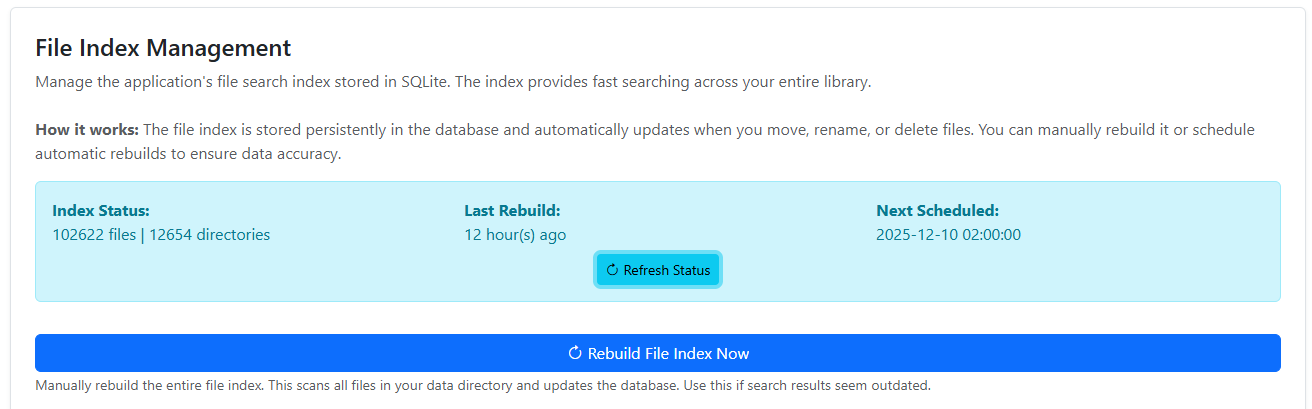
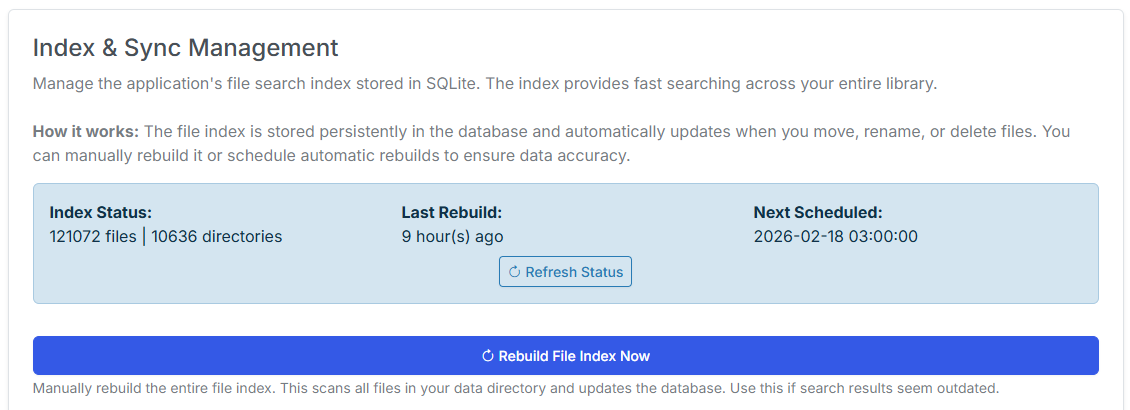
Doc Updates v4.7

diff --git a/docs/features/app-settings/download-settings.md b/docs/features/app-settings/download-settings.md
@@ -1,12 +1,12 @@
-# Download Settings
+# Download and API Settings
 
-![Download Settings](../../assets/settings/download-settings.png){: .center-image}
+The settings on this page are related to downloading files and connecting to various APIs for information OTHER than metadata. That is covered in the [Metadata Providers](metadata.md) page.
 
 ### API Download Configuration <a href="#api-configuration" id="api-configuration"></a>
 
-#### Custom Headers for Auth
+![Download and API Settings](../../assets/settings/download-settings.png){: .center-image}
 
-Depending on your authentication/VPN/etc to protect your site, this setting will allow you to pass custom auth variables or anything else in the header. Simply enter the content you need to pass as JSON.&#x20;
+Depending on your authentication/VPN/etc to protect your site, this setting will allow you to pass custom auth variables or anything else in the header. Simply enter the content you need to pass as JSON. These options, along with the Chrome extension, will let you `click` links and send them to CLU to be downloaded to your `/watch` folder.
 
 The example provided shows you how to pass Client ID and Client Secret to authenticate to your site.
 
@@ -17,42 +17,51 @@ The example provided shows you how to pass Client ID and Client Secret to authen
 }
 ```
 
-#### PixelDrain API Key
+## Download Provider Priority
 
-For the [File Downloads](../../features/file-downloads/index.md) feature, you can bypass daily limits by entering your API key in this field.
+![Download Provider Priority](../../assets/settings/download-providers.png){: .center-image}
 
-### Metadata API Configuration
+This section allows you to set the priority of the download providers. This is used by the app to determine the order in which to try the download providers when downloading files.
 
-Various settings for calling metadata services and APIs are configured in this section.
+Use the up and down arrows to move the download providers up and down in the list. The higher the provider is in the list, the higher the priority it has. If one provider fails, the download will be retried with the next provider in the list.
 
-#### Comicvine API Key
+### PixelDrain API Key
 
-Enter your Comicvine API key here to allow the app to call the Comicvine API for metadata.
+For the [File Downloads](../../features/file-downloads/index.md) feature, you can bypass daily limits by entering your API key in this field. 
 
-#### Metron Username and Password
+!!! Recommended Provider
+    PixelDrain is a recommended service. $10 of [Pre-Paid service](https://pixeldrain.com/home#) should easily last you all year and you'll see download speed improvements with 5GB downloads in a matter of minutes.
 
-Enter your Metron username and password here to allow the app to call the [Metron API](https://metron.cloud/) for metadata.
+## Komga Reading Sync
 
-!!! warning "Required for Pull List"
-    The pull list requires the Metron API to be enabled in the app settings.
+![Komga Reading Sync](../../assets/settings/komga-sync.png){: .center-image}
 
-#### GCD Metadata Languages
+This section allows you to import your reading progress from Komga. Once imported, your reading history will be available in all [Library Insights](../../features/insights/index.md) sections. This will allow you to see your reading progress in the context of your entire collection.
 
-Enter a comma-separated list of languages to search for metadata on. This is used by the app to search for metadata on comics in the GCD database. Defualts to `en`. 
+Additionally, books you have started in Komga will marked as "In Progress" in CLU and when opened, will resume reading from where you left off in Komga.
 
-#### Auto File Renaming
+### Server, Username and Password
 
-If this is enabled, anytime metadata from **Comicvine** is downloaded, the app will use the rename pattern to rename the file.
+These fields are used to connect to your Komga server. The URL should be the base URL of your Komga server. The username and password are the credentials for your Komga server. 
 
-#### Auto Move Files
+### Library Path Mapping
 
-If this is enabled, anytime metadata from **Comicvine** is downloaded, the app will use the move pattern to move the file to the target directory.
+In order to correctly map your reading progress, CLU needs to know where your files are located on your Komga server. For each libray you have configured in CLU, simply enter the path to the files on your Komga server. When imported, files will be matched based on the relative path from the library path you provide here.
 
-#### Custom Move Pattern
+### Sync Schedule
 
-Much like the custom rename pattern, this allows you to define a custom move pattern for your files. When enabled, anytime metadata from **Comicvine** is downloaded, the app will use this pattern to move the file to the target directory.
+This section allows you to setup a continual sync between CLU and Komga. This is a one way sync from Komga to CLU. It will not update Komga with any changes made in CLU.
 
-![Move Pattern](../../assets/settings/move-pattern.png){: .center-image}
+**Frequency:** This will enable the sync between CLU and Komga. This is disabled by default. You can select **Daily** or **Weekly** for the sync frequency.
 
-!!! info "To Do: Add GCD Support"
-    Future versions will support auto renaming/moving files based on metadata from the GCD database.
+**Sync Interval (hours):** Set the timing for syncing your reading progress from Komga. The interval is set in hours. 
+
+#### Sync Status
+
+This section will display the status of the sync between CLU and Komga. It will display the *Last Sync* timestamp, *Total Read Issues Synced* and *Total In Progress Issues Synced*.
+
+#### Save, Test Connection and Sync Now
+
+- **Save:** Saves the settings in this section.
+- **Test Connection:** Tests the connection to your Komga server. If successful, it will display a *Connected* indicator.
+- **Sync Now:** Triggers an immediate sync between CLU and Komga. You can trigger a one-time sync anytime you'd like by clicking this button.

diff --git a/docs/features/app-settings/file-settings.md b/docs/features/app-settings/file-settings.md
@@ -8,7 +8,7 @@ All settings related to file moving, renaming and processing are updated in this
 
 ![File Settings](../../assets/settings/file-settings.png){: .center-image}
 
-### Folder Monitoring
+## Folder Monitoring
 
 This is the most extensive set of features and will only be applicable if [folder-monitoring](../../features/folder-monitoring/index.md) is enabled. Most of these feature flags enhance the previous feature flag.
 
@@ -43,7 +43,9 @@ The two options here will vary greatly on how much you use [Missing Issue Check]
 
 **IGNORED FILES:** Add a comma-separated list of files to ignore when checking for missing issues. Your collection may be a mix of CBZ/CBR/PDF or other files but if you have other files in your directories you want excluded, just add them here.
 
-### Directory & File Processing Settings
+## Directory & File Processing Settings
+
+![Directory & File Processing Settings](../../assets/settings/directory-settings.png){: .center-image}
 
 **Enable Subdirectories for Conversion:** This specifically allows [Convert Directory](../../features/directory-features/convert.md) to traverse subdirectories and convert all CBR/RAR files to CBZ. This is not enabled by default - as running this on a high level folder AND a large collection could take quite a bit of time.
 
@@ -51,13 +53,27 @@ The two options here will vary greatly on how much you use [Missing Issue Check]
 
 **DELETED TYPES:** Add a comma-separated list of extensions to delete while performing actions on files. When any operation unpacks a RAR/ZIP File, files with these extensions will deleted before the file is re-packed. Examples are: `.nfo,.sfv,.db,.DS_Store`
 
-### Custom Rename Pattern Settings
+## Custom Naming Settings
 
-Use a custom naming scheme for renaming issues when downloads are processed or files are renamed.
+![Custom Naming Settings](../../assets/settings/naming-settings.png){: .center-image}
+
+Use the options below to customize the naming scheme for file and directory operations.
+
+### Custom File Naming
+
+Use a custom naming scheme for renaming issues when downloads are processed or files/directories are renamed in the UI
 
 Enter your naming pattern using the syntax provided and see a real-time preview of the result.
 
-![Naming Pattern](../../assets/settings/naming-pattern.png)
+### Custom Folder Patterns
 
-!!! warning
-    Renaming applies only to issues. Entering directory paths or folder structures is not yet supported.
+Similar to the custom file naming above, this allows you to customize the naming scheme for folders.
+
+Currently, this is only used with the [Pull List](../../features/pull-list/index.md) feature to create folders for each series. This allows you to organize your files in a way that makes sense to you.
+
+!!! info "Available Variables"
+    - {publisher}
+    - {series_name}
+    - {volume_number}
+    - {start_year}
+    - {issue_number}

diff --git a/docs/features/app-settings/personalization.md b/docs/features/app-settings/personalization.md
@@ -1,0 +1,51 @@
+---
+description: Update Preferences and Style the App to Your Liking
+---
+# Personalization
+
+Update the layout of the homepage, change the theme, and enable recommendations from the Personalization page.
+
+## Theme Selection
+
+![Theme Selection](../../assets/settings/styling.png){: .center-image}
+
+Simply select the theme from the dropdown and click Save. You'll see a preview image of the theme when selected.
+
+!!! note
+    The **Default** theme and the **Zephyr** theme are the only officially supported themes.
+
+## Homepage Layout
+
+![Homepage Layout](../../assets/settings/dashboard.png){: .center-image}
+
+### Ordering
+
+Use the up <i class="bi bi-arrow-up"></i> and down <i class="bi bi-arrow-down"></i> arrows to reorder the sections on the homepage.
+
+### Display
+
+Check and uncheck sections you want to display on your homepage.
+
+## Recommendations
+
+![Recommendations](../../assets/settings/recommendations.png){: .center-image}
+
+This setting let's you configure an AI-powered recommendation service for your reading list. Requires an API key from your preferred provider.
+
+This feature takes your reading history and "Want to Read" list and uses it to generate personalized recommendations for you. Recommendations are manually triggerer, so you can manage how often they run and use them when you want to find something new to read.
+
+### AI Provider
+
+Select your preferred AI provider from the dropdown. Currently supported providers are:
+
+- OpenAI (ChatGPT)
+- Anthropic (Claude)
+- Gemini (Google)
+
+### API Key
+
+Enter your API key for the selected provider.
+
+### Model
+
+Select the model you would like to use for recommendations.

diff --git a/docs/features/app-settings/system-settings.md b/docs/features/app-settings/system-settings.md
@@ -4,7 +4,7 @@ description: All of the Options available in Settings
 
 # System and Performance Settings
 
-![System and Performance Settings](../../assets/settings/system-settings.png)
+Settings related to System Performace and Operations are managed in this section.
 
 ## Performance and Timeout Settings
 
@@ -28,8 +28,6 @@ Clears system cache and API to remove any cached data.
 
 ![File Index Rebuild](../../assets/settings/index-rebuild.png)
 
-In v4, the **Cache Management** has been replaced with databased managed file indexing. This provides faster page loads and improved search performance. 
-
 From this area in admin, you can manually trigger a file index rebuild and schedule daily or weekly rebuilds. You'll also see your current index status here.
 
 ### Automatic Rebuild Schedule
@@ -39,6 +37,9 @@ From this area in admin, you can manually trigger a file index rebuild and sched
 Timing for automatically rebuilding the file index. Default is disabled
 
 You can set Daily or Weekly and specify the hour to rebuild the index. 
+
+!!! Warning
+    New files will not appear until the index is rebuilt. You must either run the process manually or ensure you have a schedule set to rebuild the index.
 
 ### Automatic Metron Sync Schedule
 

diff --git a/docs/features/app-settings/index.md b/docs/features/app-settings/index.md
@@ -20,6 +20,6 @@ There are 6 sections in the app settings:
 * **Libraries** - Add, Edit, Pause and Remove libraries
 * **File Processing** - Settings related to file monitoring and renaming
 * **Download and API** - Metadata providers configuration and download settings
+* **Metadata Providers** - Metadata providers configuration and download settings
 * **System and Performance** - Timesone, performance logging and library scan settings
-* **Styling** - Select any of the supported
-* **Recommendations** - Enter an API key for ChatGPT, Google Gemini or Claude to get recommendations
+* **Preferences** - Update the Homepage layout, change the theme, and enable recommendations

diff --git a/docs/features/directory-features/update.md b/docs/features/directory-features/update.md
@@ -1,0 +1,16 @@
+---
+description: Bulk Update Values in ComicInfo.xml
+---
+
+# Bulk Update ComicInfo.xml
+
+![Bulk Update ComicInfo.xml](../../assets/directory/update.png){: .center-image }
+
+This feature allows you to bulk update values in the `ComicInfo.xml` of each _CBZ_ file in a directory.
+
+There are currently 4 fields supported:
+
+- **Series:** Update the Series Name for all files in the directory
+- **Issue:** Update the Issue Number for all files in the directory
+- **Volume:** Update the Volume Number (Year) for all files in the directory
+- **Publisher:** Update the Publisher for all files in the directory

diff --git a/docs/features/pull-list/series.md b/docs/features/pull-list/series.md
@@ -63,4 +63,12 @@ You can mark issues as "Owned" if you have a copy in a trade or another location
 
 You can mark issues as "Skipped" if you don't want to search for the issue in the nightly pull process.
 
+### Multi-Select Actions
 
+![Multi-Select Actions](../../assets/pull/multi-select.png){: .center-image}
+
+You can select multiple issues and perform the following actions:
+
+- **Mark as Owned** - Mark multiple issues as owned
+- **Mark as Skipped** - Mark multiple issues as skipped
+- **Mark as Wanted** - Mark multiple issues as wanted (only if they are currently marked as Owned or Skipped)
